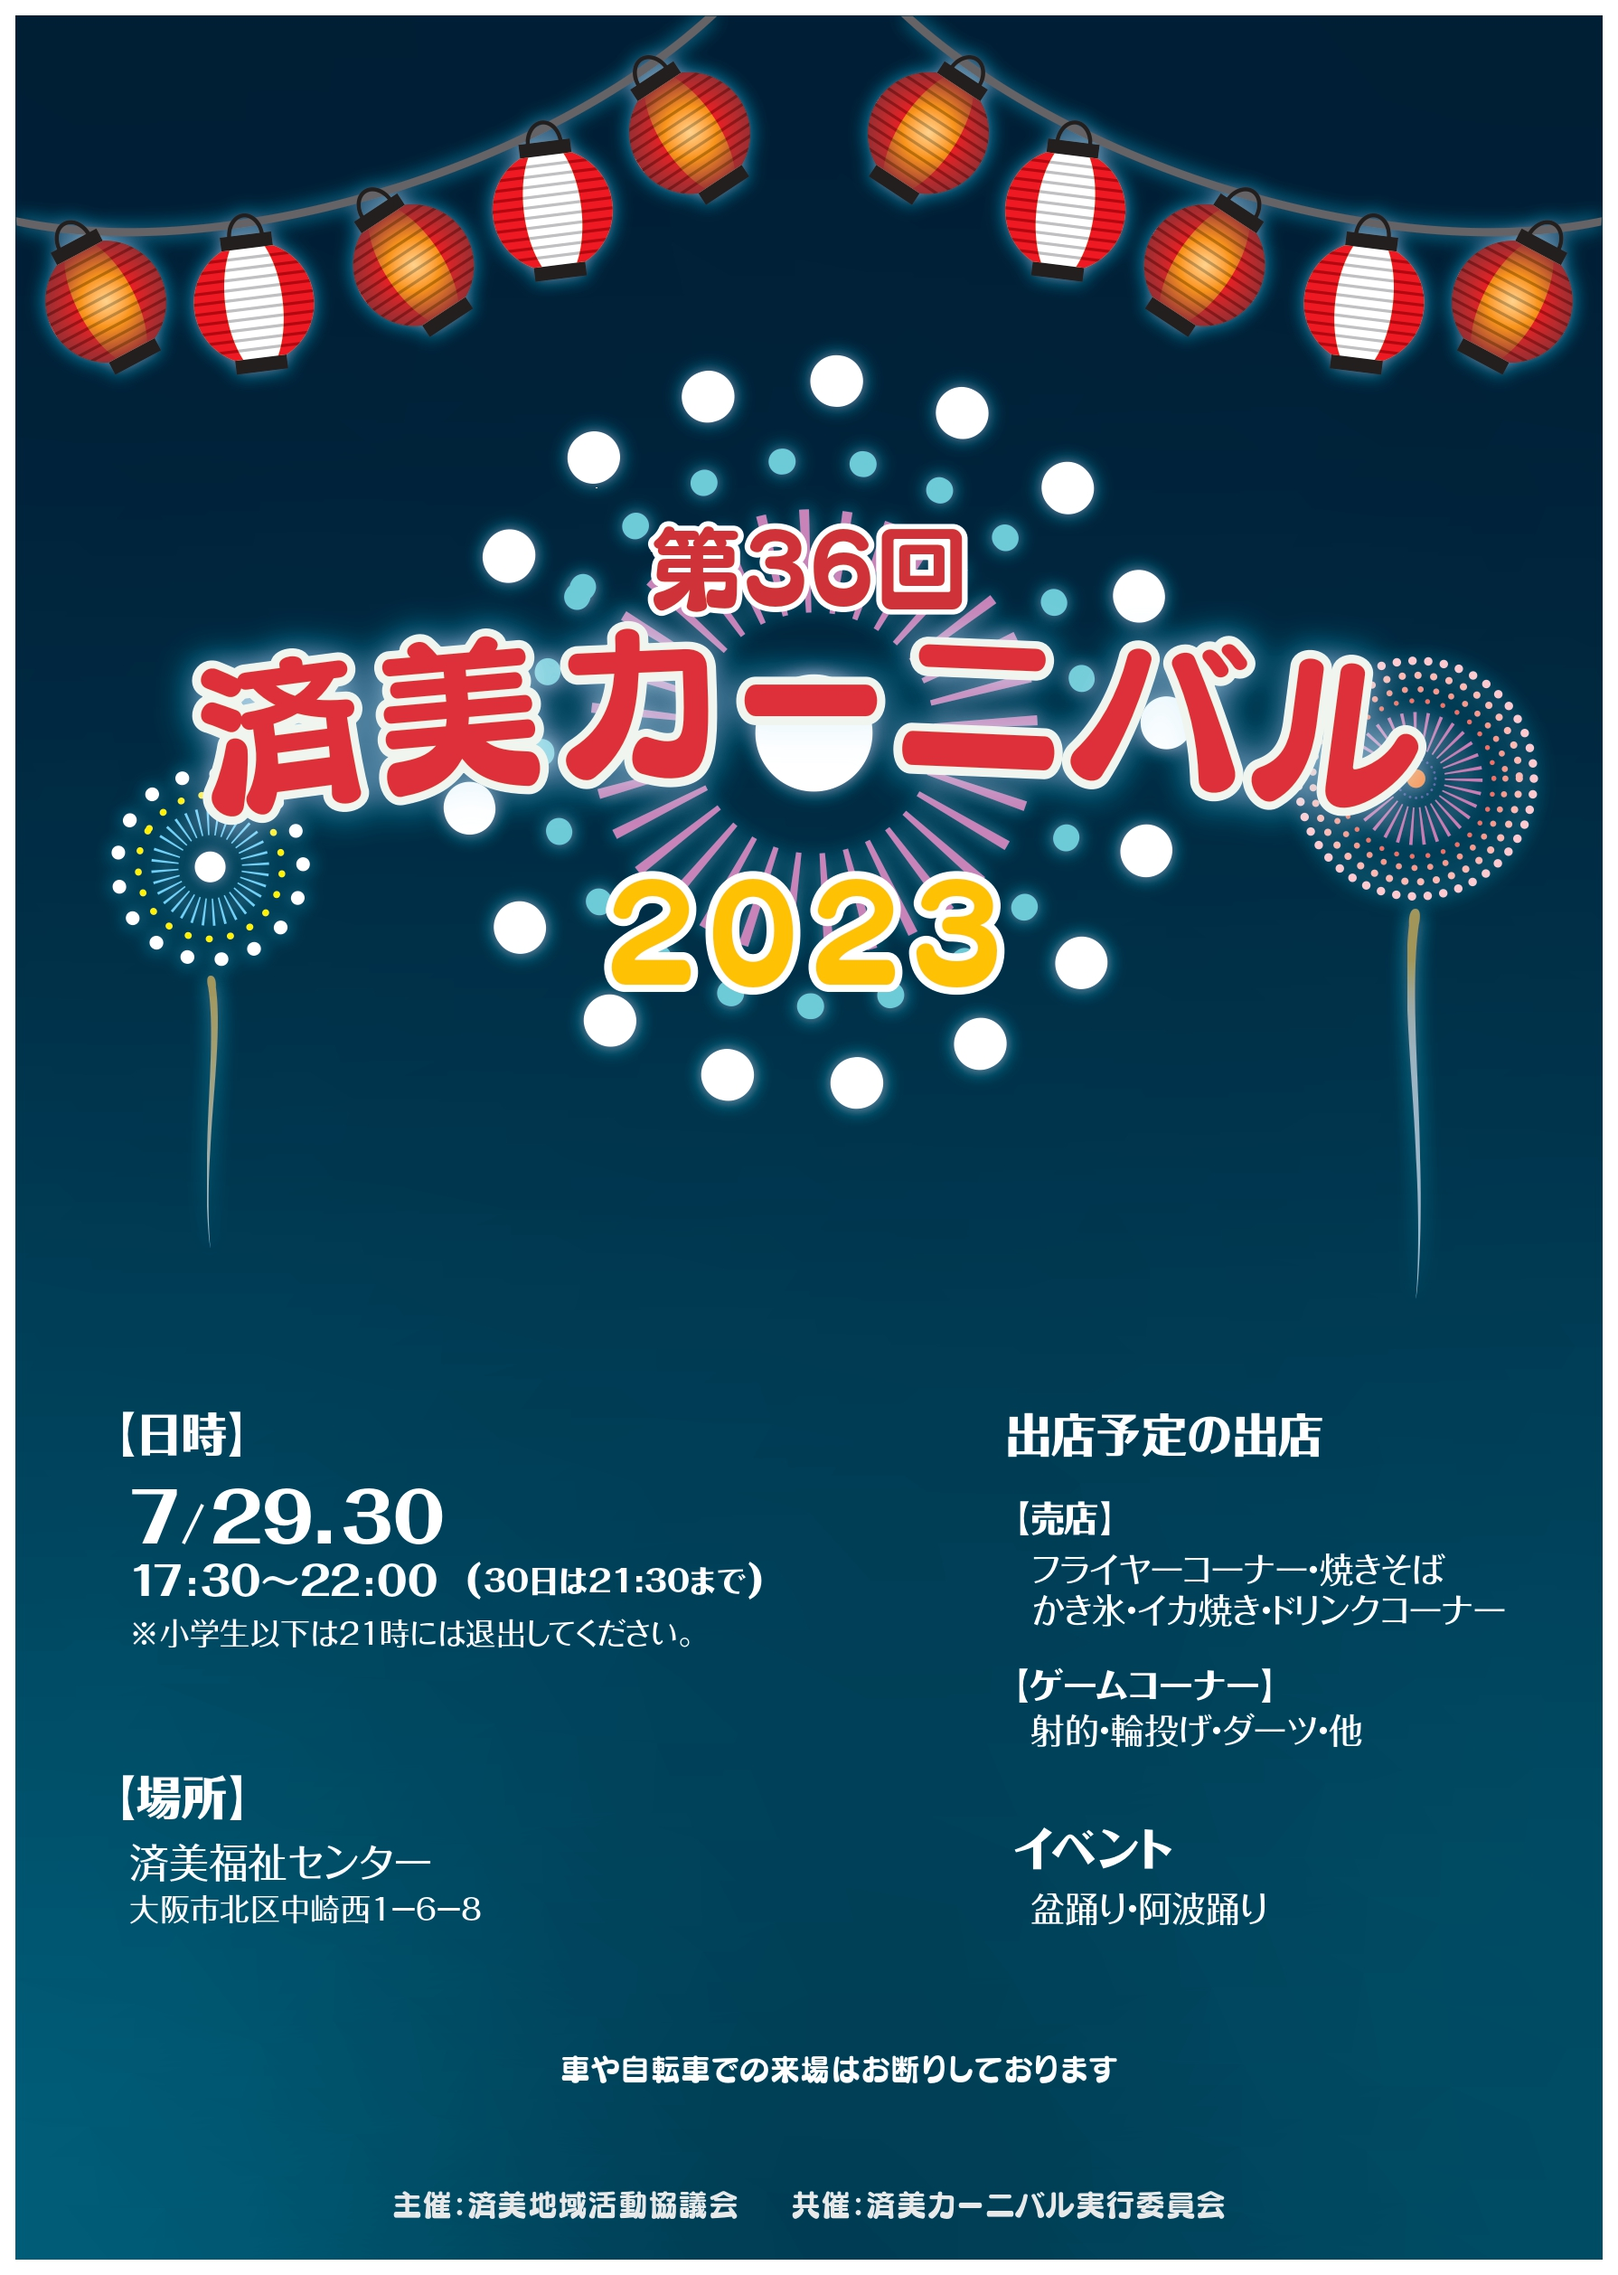
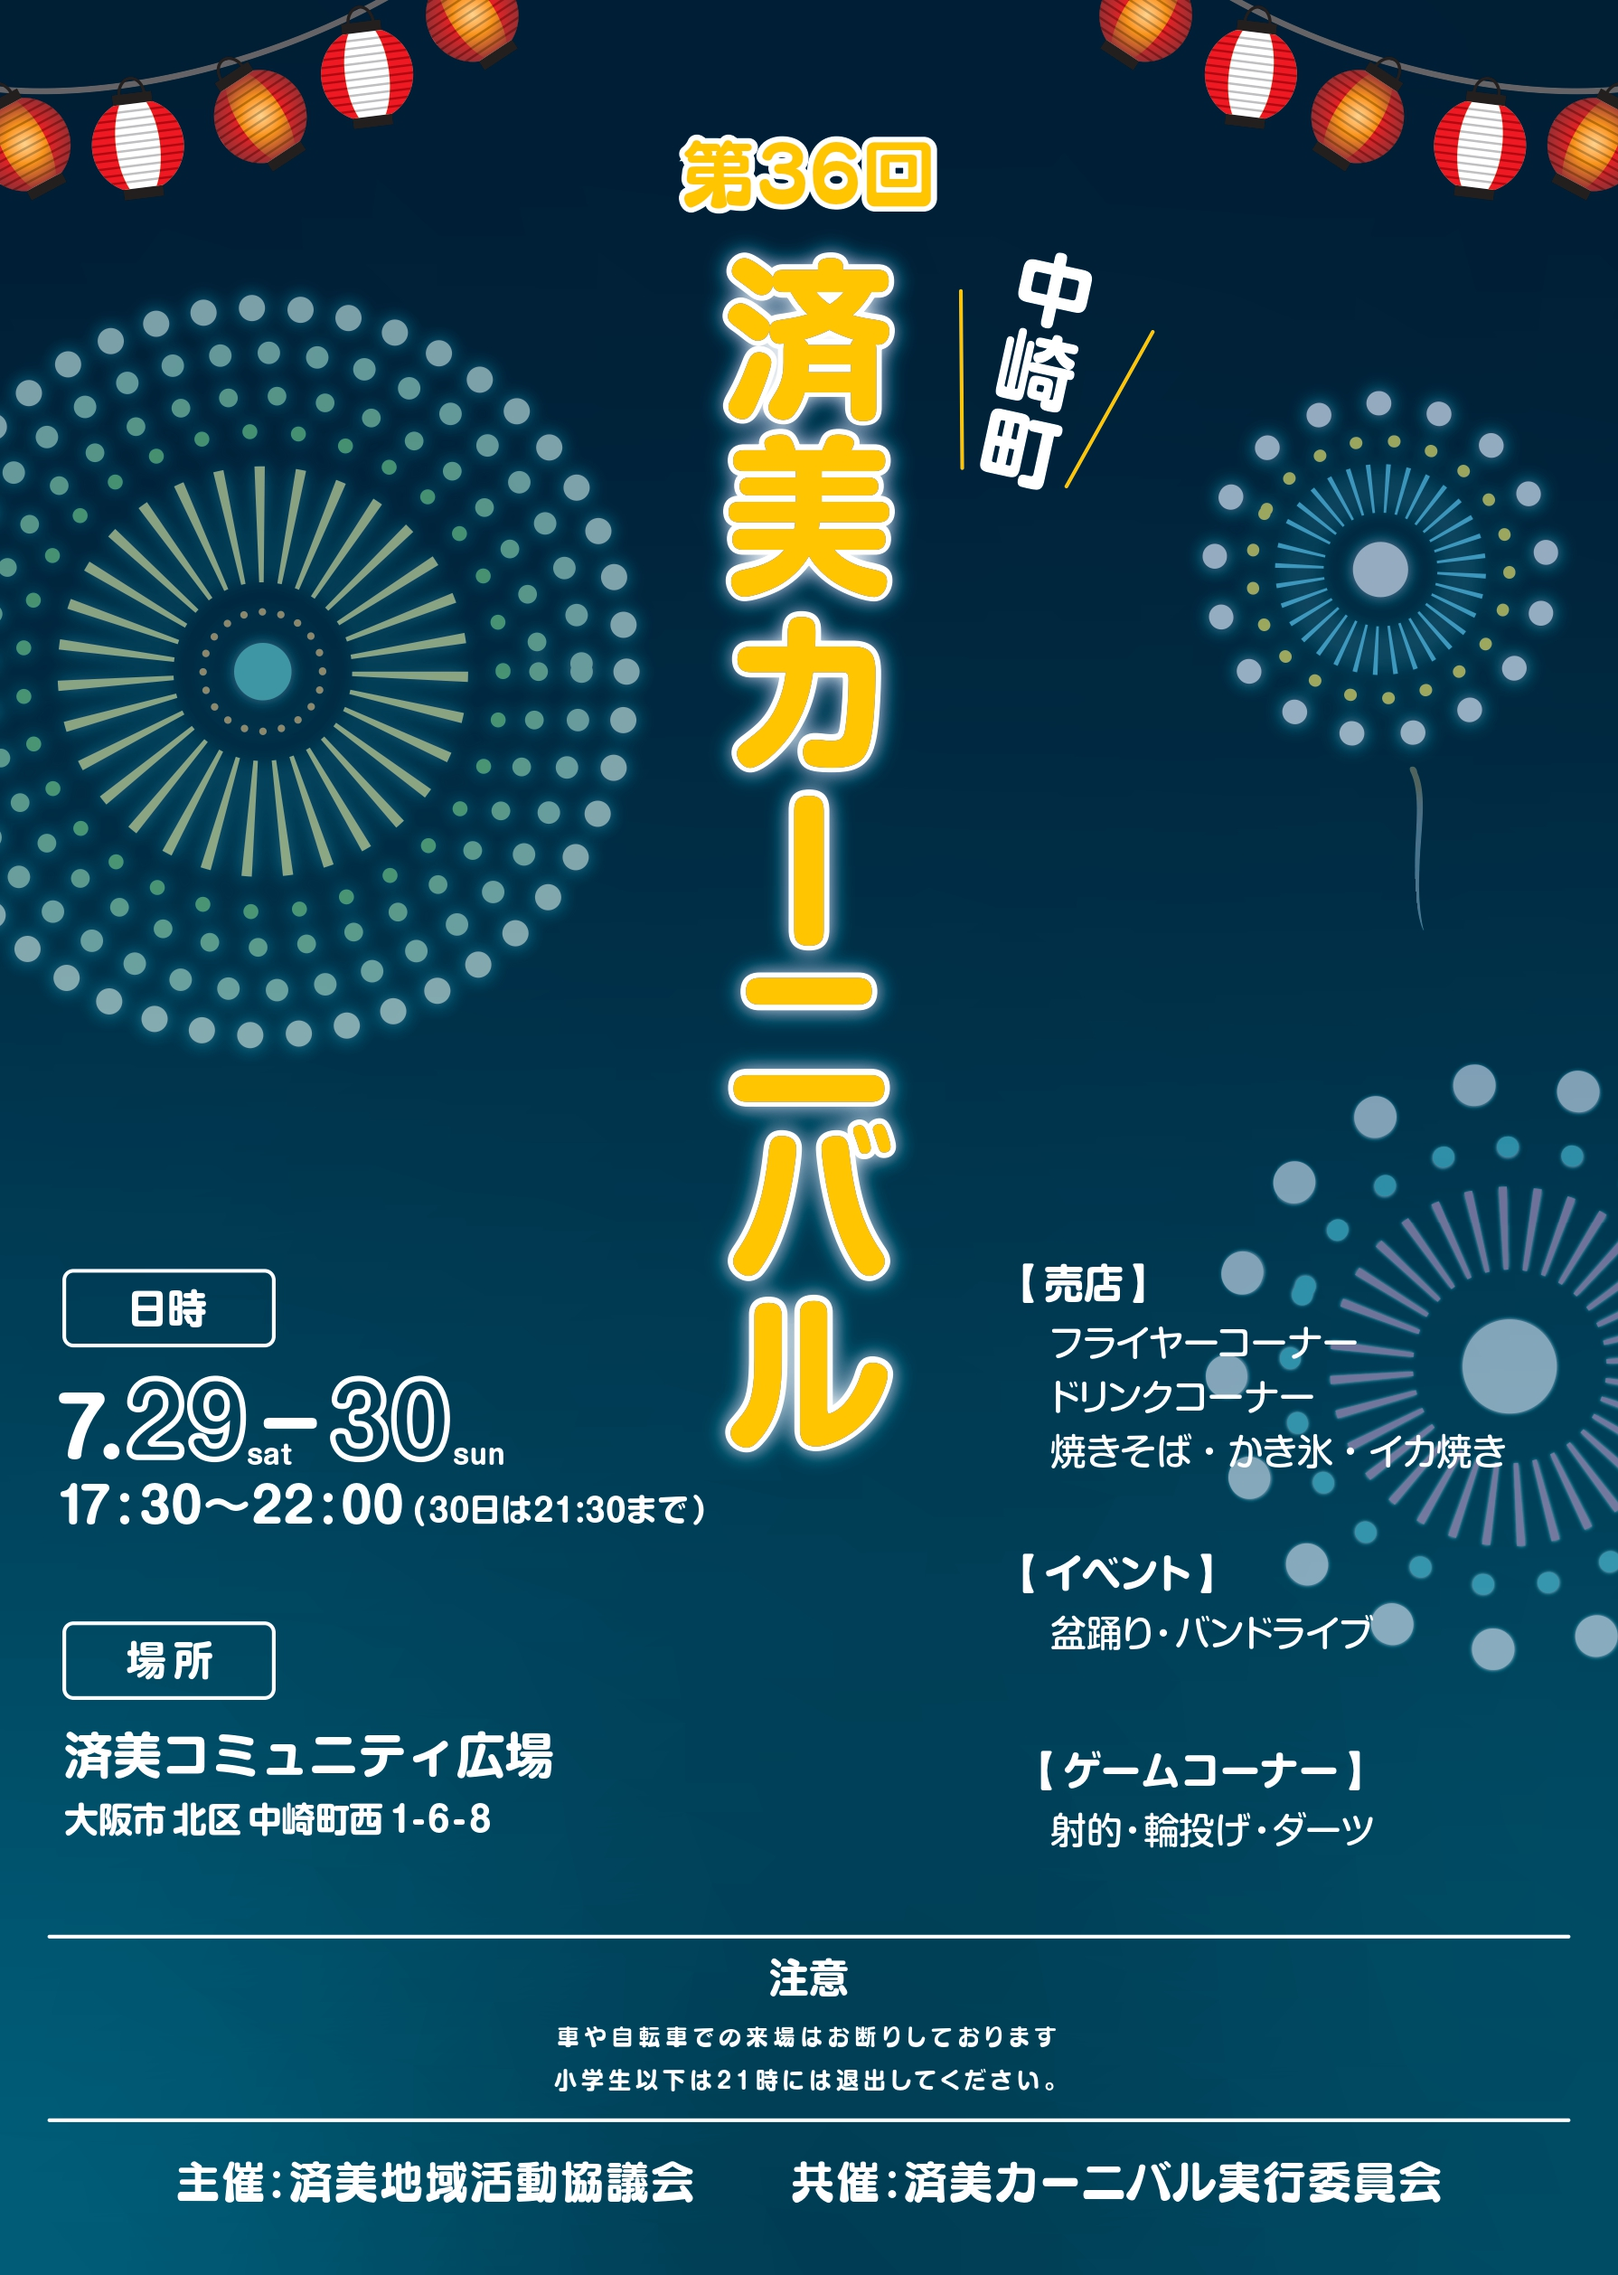
up

diff --git a/works-poster.html b/works-poster.html
@@ -24,10 +24,10 @@
     <main>
       <div class="work">
         <div class="work-wrapper">
-          <h2 class="work-name">coming-soon</h2>
+          <h2 class="work-name">済美カーニバル2023　ポスター</h2>
 
           <div class="slider">
-            <div><img src="img/numazu.png" class="sumnaile"></div>
+            <div><img src="img/works/poster/1.jpg" class="sumnaile"></div>
           </div>
 
           <div class="info-wrap">
@@ -39,10 +39,10 @@
                 <li class="item info-ttl">URL</li>
               </ul>
               <ul class="info-list">
-                <li class="item">4ヶ月</li>
-                <li class="item">デザイン/コーディング</li>
-                <li class="item">HTML5/CSS(SCSS)/Js</li>
-                <li class="item"><a href="https://creative-work04.vercel.app/" id="linkOpen">URL</a></li>
+                <li class="item">1ヶ月</li>
+                <li class="item">デザイン</li>
+                <li class="item">Adobe illustrator</li>
+                <li class="item">リンク無し</li>
               </ul>
             </div>
           </div>
@@ -50,9 +50,9 @@
           <div class="content-wrap">
             <h3 class="content">制作背景</h3>
             <p class="content-text">
-              この作品は地域を盛り上げるをテーマに、静岡県沼市を舞台にしたデジタルスタンプラリーサイトです。<br>
-              スタンプラリーを通して沼津市を巡り、グルメや観光、歴史を楽しみ、沼津市の魅力を知ってもらえることを目的としています。<br>
-              また、このサイトではスタンプラリーイベントに加入している店舗や施設の情報や、集めたスタンプの閲覧などができます。<br>
+              専門学校在学中に中崎町で行われる済美カーニバルという祭のポスター制作のお話をいただいた時に制作しました。<br>
+              「なんという祭か？」と理解しやすいように、祭名を中央に大きく配置し、その左右に整列を意識して情報を配置しました。<br>
+              左には「日時」「場所」と場所と時間のグループ、右側には「売店」「イベント」「コーナー」など、祭りでどのような催しが提供されているかグループに分けをし情報の理解がしやすいようにしました。<br>
             </p>
           </div>
 

diff --git a/index.html b/index.html
@@ -9,9 +9,9 @@
   <meta name="description" content="ここに説明文を設定">
   <meta name="twitter:card" content="summary">
   <meta name="twitter:site" content="@twitteraccount">
-  <meta property="og:site_name" content="サイト名">
-  <meta property="og:title" content="サイトタイトル">
-  <meta property="og:description" content="サイト説明文">
+  <meta property="og:site_name" content="jiro's Portfolio">
+  <meta property="og:title" content="jiro's Portfolio">
+  <meta property="og:description" content="林慈朗のPortfolioです">
   <meta property="og:url" content="https://www.hogehoge.com">
   <meta property="og:image" content="https://www.hogehoge.com./hoge.jpg">
   <meta property="og:image:type" content="image/jpeg">
@@ -209,7 +209,17 @@
       <h2 class="heading2">WORK</h2>
       <div class="work-container">
         <ul class="works-list">
-  
+
+          <li class="work">
+            <a href="works-portfolio.html" class="work-link">
+              <img src="img/works/portfolio/1.png" class="work-img">
+            </a>
+            <div class="work-info">
+              <h3 class="work-category">WEBサイト</h3>
+              <h4 class="work-name">Portfolio</h4>
+            </div>
+          </li>
+
           <li class="work">
             <a href="works-cw4.html" class="work-link">
               <img src="img/works/numazu/1.png" class="work-img">
@@ -229,17 +239,6 @@
               <h4 class="work-name">BeBe-MART</h4>
             </div>
           </li>
-
-          <li class="work">
-            <a href="works-portfolio.html" class="work-link">
-              <img src="img/works/portfolio/1.png" class="work-img">
-            </a>
-            <div class="work-info">
-              <h3 class="work-category">WEBサイト</h3>
-              <h4 class="work-name">Portfolio</h4>
-            </div>
-          </li>
-
 
           <li class="work">
             <a href="works-dailyui.html" class="work-link">

diff --git a/works-portfolio.html b/works-portfolio.html
@@ -43,10 +43,10 @@
                 <li class="item info-ttl">URL</li>
               </ul>
               <ul class="info-list">
-                <li class="item">4ヶ月</li>
+                <li class="item">2ヶ月(更新中)</li>
                 <li class="item">デザイン/コーディング</li>
-                <li class="item">HTML5/CSS(SCSS)/Js</li>
-                <li class="item"><a href="https://creative-work04.vercel.app/" id="linkOpen">URL</a></li>
+                <li class="item">HTML5/CSS(SCSS)/Js(jQuery)</li>
+                <li class="item"><a href="https://creative-work04.vercel.app/" id="linkOpen">作品のサイトへ飛びます</a></li>
               </ul>
             </div>
           </div>
@@ -55,7 +55,8 @@
             <h3 class="content">制作背景</h3>
             <p class="content-text">
               就職活動のためPortfolioです。<br>
-              初めてレスポンシブを含めたコーディングを行い、PC・タブレット・スマホでも閲覧ができるようにしました。
+              初めてレスポンシブを含めたコーディングを行い、PC・タブレット・スマホでも閲覧ができるようにしました。<br>
+
           </div>
 
 

diff --git a/work.html b/work.html
@@ -113,12 +113,12 @@
               </li>
 
               <li class="work">
-                <a href="works-card02.html" class="work-link">
+                <a href="works-poster.html" class="work-link">
                   <img src="img/works/poster/1.jpg" class="work-img">
                 </a>
                 <div class="work-info">
                   <h3 class="work-category">グラフィック</h3>
-                  <h4 class="work-name">猫カフェスタッフの名刺カード</h4>
+                  <h4 class="work-name">済美カーニバル2024ポスター</h4>
                 </div>
               </li>
             </ul>

diff --git a/works-bebemart.html b/works-bebemart.html
@@ -48,8 +48,8 @@
               <ul class="info-list">
                 <li class="item">4ヶ月</li>
                 <li class="item">デザイン/コーディング</li>
-                <li class="item">HTML5/CSS(SCSS)/Js</li>
-                <li class="item"><a href="https://creative-work04.vercel.app/" id="linkOpen">作品のサイトへ飛びます</a></li>
+                <li class="item">HTML5/CSS/Js</li>
+                <li class="item"><a href="https://bebe-mart.vercel.app/" id="linkOpen">作品のサイトへ飛びます</a></li>
               </ul>
             </div>
           </div>
